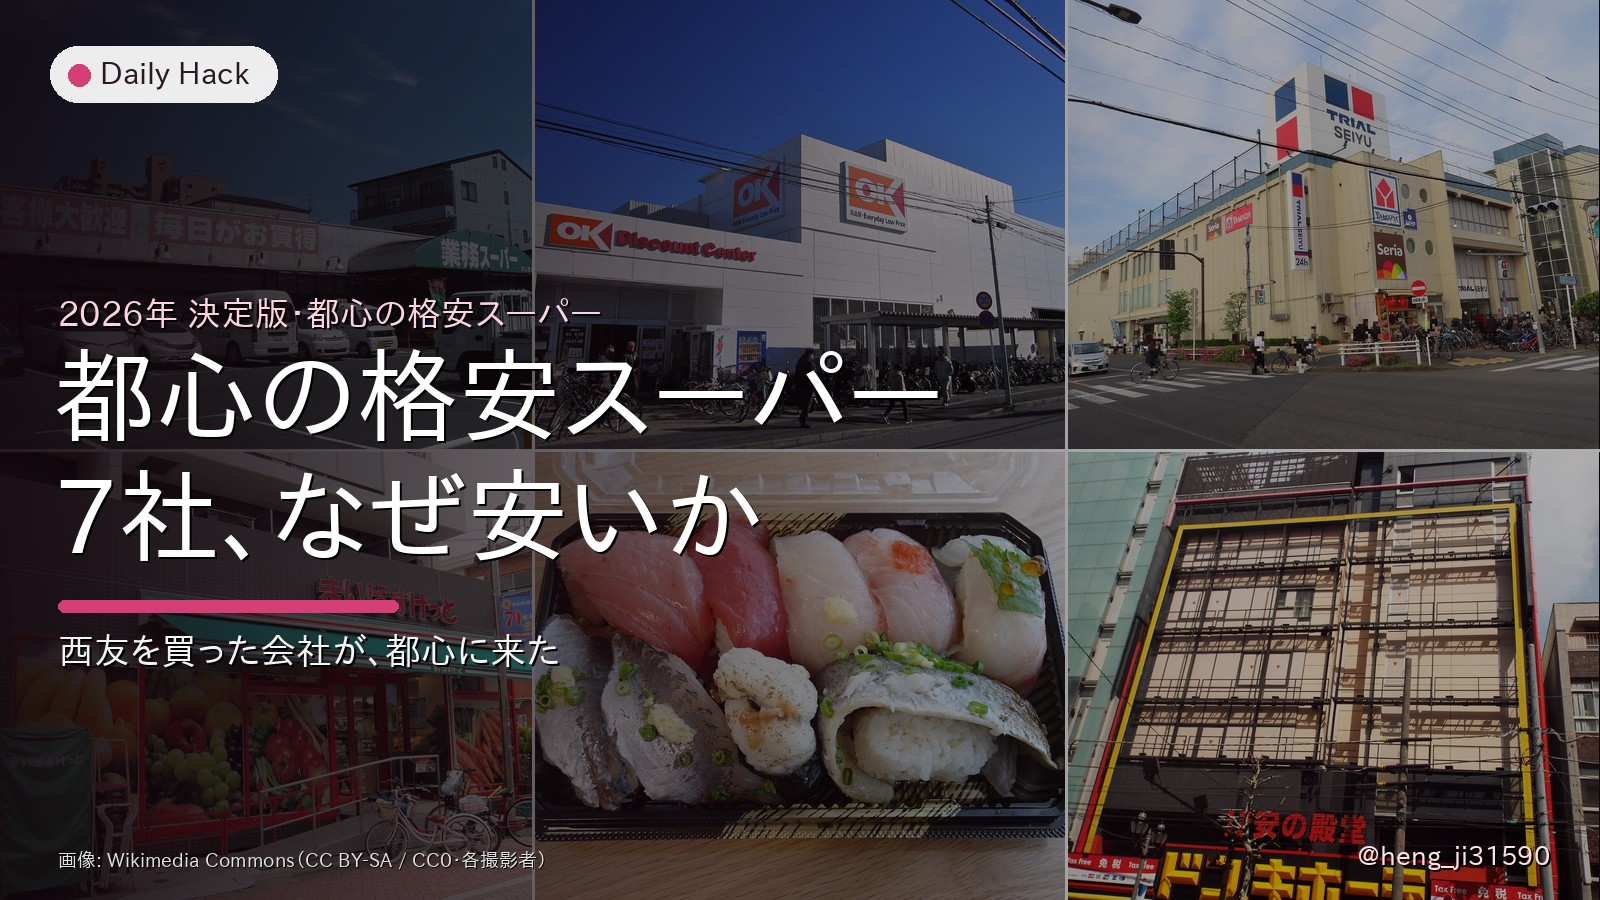
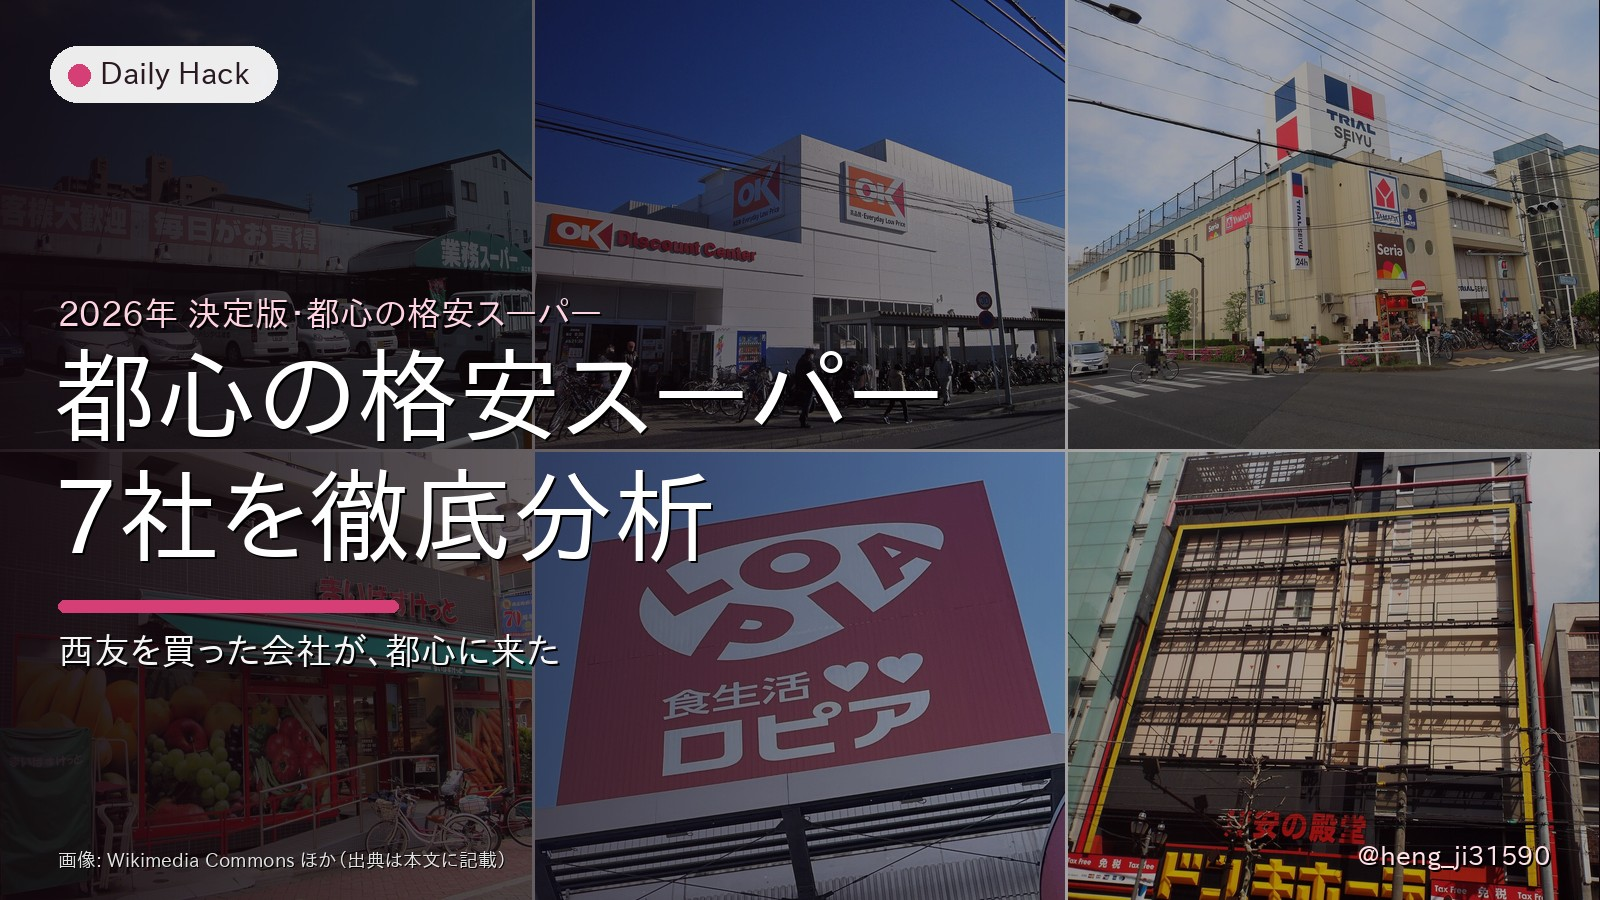
fix: 格安スーパー記事のレビュー指摘 10 件 ＋ 関連ブロックの挿入位置のバグ
## レビューで直したもの

1. タイトル →「都心の格安スーパー 2026｜主要7社を徹底分析して見えた勢力図」
2. 見出し →「30秒で分かる、都心の格安スーパーの世界」
3. タイル 2 枚（実物の値札／この記事だけの数字）を外し、9 枚 → 7 枚
4. アイキャッチの文字 →「都心の格安スーパー7社を徹底分析」
5. **アイキャッチの寿司をロピアの店舗看板に差し替えた。** 6 枚すべてが店の写真になった
6. ロピア節の写真を指定の店舗看板に差し替え
7. 動画の下の空白（下記の広告枠の件）
8. 「あわせて読みたい」の崩れ（下記の挿入位置の件）
9. ハナマサ節の写真を「肉のハナマサPLUS」の店頭に差し替え
10. **「数字で見る都心の7大スーパー」を新設。** 7 社の売上・店舗数・1店あたり年商の表、
    売上と店舗数の横棒、東京都の店舗数、そして**勢力図（店舗数 × 1店あたり年商）**

## 見つかったバグ 2 つ

**① 関連記事と広告が `.section-with-mascot` の中に入っていた。**
`place()` が h2 の直前に挿していたが、その h2 は flex コンテナに包まれている。
結果、マスコットと見出しの間に潰れて入り、前後の余白も壊れていた。
包みごと前に置くように直した。**全 73 記事に効く。**

**② 広告枠が、配信されなくても場所を取っていた。**
`min-height: 50px` ＋「スポンサーリンク」のラベルが、忍者AdMAX が何も返さない
新しい URL でもそのまま残る。これが「動画の下の不自然な空白」の正体。
配信を実測して、埋まった枠だけ開くようにした。

## そのほか

- 手書きの関連ブロックを外した。**サムネイルにこの記事の写真を使っていて、
  リンク先の記事と中身が合っていなかった。** 自動ブロックは各記事の実物の
  アイキャッチを使うので、そちらに任せる
- `--pink-400` は定義されていない。使うとグラデーションごと無効になり、
  バーが透明で描画されていた（実際に 1 位のバーが消えていた）
- 業務スーパーの店舗数を決算の数字に更新（1,062 → 1,122・2025年10月末）、
  神戸物産の売上 5,517億円 も入れた
- `check-article-ux.py` が `num-grid` / `pos-map` を視覚部品として数えるようにした

Claude-Session: https://claude.ai/code/session_01RqPaqffepEWsiAkvhJEvmW

Changed region(s): [[0.125, 0.4978, 0.6875, 1.0]]

diff --git a/src/styles/global.css b/src/styles/global.css
@@ -589,6 +589,46 @@ footer.foot .pr { margin-top: 6px; }
   .income-row { grid-template-columns: 76px 1fr 70px; gap: 8px; font-size: 12.5px; }
 }
 
+/* 数値比較バー（--w に % を入れる。income-bar の段階指定では刻めない数字向け） */
+.num-grid { display: grid; gap: 9px; margin: 22px 0; }
+.num-row { display: grid; grid-template-columns: 132px 1fr 92px; gap: 12px; align-items: center; font-size: 13.5px; }
+.num-row .num-label { font-weight: 800; color: var(--pink-700); line-height: 1.35; }
+.num-row .num-track { height: 22px; background: var(--pink-50); border: 1px solid var(--pink-200); border-radius: 999px; overflow: hidden; }
+.num-row .num-fill { height: 100%; width: var(--w, 10%); background: linear-gradient(90deg, var(--pink-300), var(--pink-500)); border-radius: 999px; }
+.num-row.is-top .num-fill { background: linear-gradient(90deg, var(--pink-500), var(--pink-700)); }
+.num-row .num-value { text-align: right; font-weight: 800; color: var(--ink); font-variant-numeric: tabular-nums; }
+.num-note { font-size: 12px; color: var(--ink-3); margin: -8px 0 22px; line-height: 1.6; }
+@media (max-width: 540px) {
+  .num-row { grid-template-columns: 96px 1fr 78px; gap: 8px; font-size: 12px; }
+  .num-row .num-track { height: 18px; }
+}
+
+/* 勢力図（店舗数 × 1店あたり年商 の2軸マップ） */
+.map-wrap { overflow-x: auto; -webkit-overflow-scrolling: touch; margin: 24px 0 8px; }
+.pos-map { position: relative; min-width: 480px; height: 340px; margin: 0 30px 0 46px;
+  background:
+    linear-gradient(to right, var(--line) 1px, transparent 1px) 0 0 / 25% 100%,
+    linear-gradient(to top, var(--line) 1px, transparent 1px) 0 100% / 100% 25%;
+  border-left: 2px solid var(--pink-300); border-bottom: 2px solid var(--pink-300); }
+.pos-dot { position: absolute; transform: translate(-50%, 50%); }
+.pos-dot i { display: block; width: 15px; height: 15px; border-radius: 50%; margin: 0 auto;
+  background: var(--pink-500); box-shadow: 0 0 0 3px #fff, 0 0 0 4px var(--pink-300); }
+.pos-dot.is-key i { width: 19px; height: 19px; background: var(--pink-700); }
+.pos-dot b { position: absolute; left: 50%; bottom: 22px; transform: translateX(-50%);
+  white-space: nowrap; font-size: 12px; font-weight: 800; color: var(--pink-700); background: #fff;
+  border: 1px solid var(--pink-200); border-radius: 999px; padding: 1px 8px; }
+.pos-dot.lbl-below b { bottom: auto; top: 22px; }
+.pos-dot.lbl-left b { left: auto; right: 22px; bottom: -8px; transform: none; }
+.pos-dot.lbl-right b { left: 22px; right: auto; bottom: -8px; transform: none; }
+.pos-axis-y { position: absolute; left: -46px; top: 0; bottom: 0; width: 42px; font-size: 11px; color: var(--ink-3); }
+.pos-axis-y span { position: absolute; right: 4px; transform: translateY(50%); }
+.pos-axis-x { position: relative; min-width: 480px; margin: 0 30px 0 46px; height: 22px; font-size: 11px; color: var(--ink-3); }
+.pos-axis-x span:first-child { transform: none; }
+.pos-axis-x span:last-child { transform: translateX(-100%); }
+.pos-axis-x span { position: absolute; transform: translateX(-50%); top: 4px; }
+.pos-zone { position: absolute; font-size: 11.5px; font-weight: 800; color: var(--pink-300); letter-spacing: .04em; }
+.map-caption { font-size: 12px; color: var(--ink-3); margin: 4px 0 26px; line-height: 1.6; }
+
 /* Source citation (small inline reference link) */
 .source-note { display: block; margin: 6px 0 18px; font-size: 11.5px; color: var(--ink-3); }
 .source-note a { color: var(--ink-2); border-bottom: 1px dotted var(--ink-3); }

diff --git a/scripts/check-article-ux.py b/scripts/check-article-ux.py
@@ -93,8 +93,10 @@ def check(path):
     # 2026-08-29: セールの節が「下の related-block の <img> をたまたま拾って」通っていた。
     # 見出しを 1 つ挟んだだけで落ちたので、実際にはビジュアルが無かった。
     # tower-timeline は skill の部品表にある正規の視覚部品なので、ここに足す。
+    # 2026-09-06: num-grid（比較バー）と pos-map（勢力図）を足した。
+    # どちらも数字を図にした正規の視覚部品で、表や写真の代わりになる。
     VISUAL = re.compile(r"<img\s|<iframe\s|twitter-tweet|event-pick|rn-figure|figure-card"
-                        r"|<table|tower-timeline")
+                        r"|<table|tower-timeline|num-grid|pos-map|income-grid")
     parts = re.split(r'(<h[23][^>]*>.*?</h[23]>)', body, flags=re.S)
     # parts: [前文, 見出し, 本文, 見出し, 本文, ...]
     for i in range(1, len(parts) - 1, 2):
